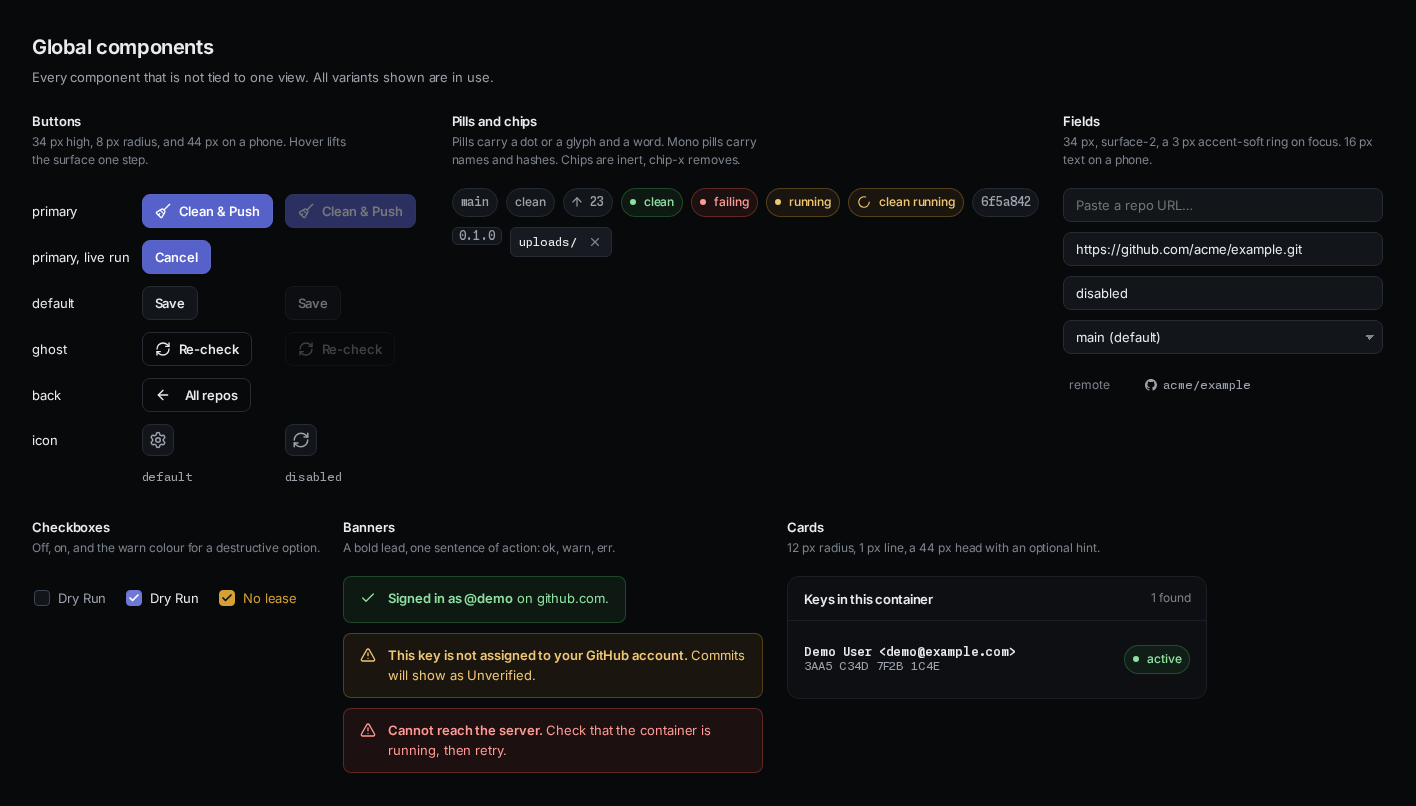
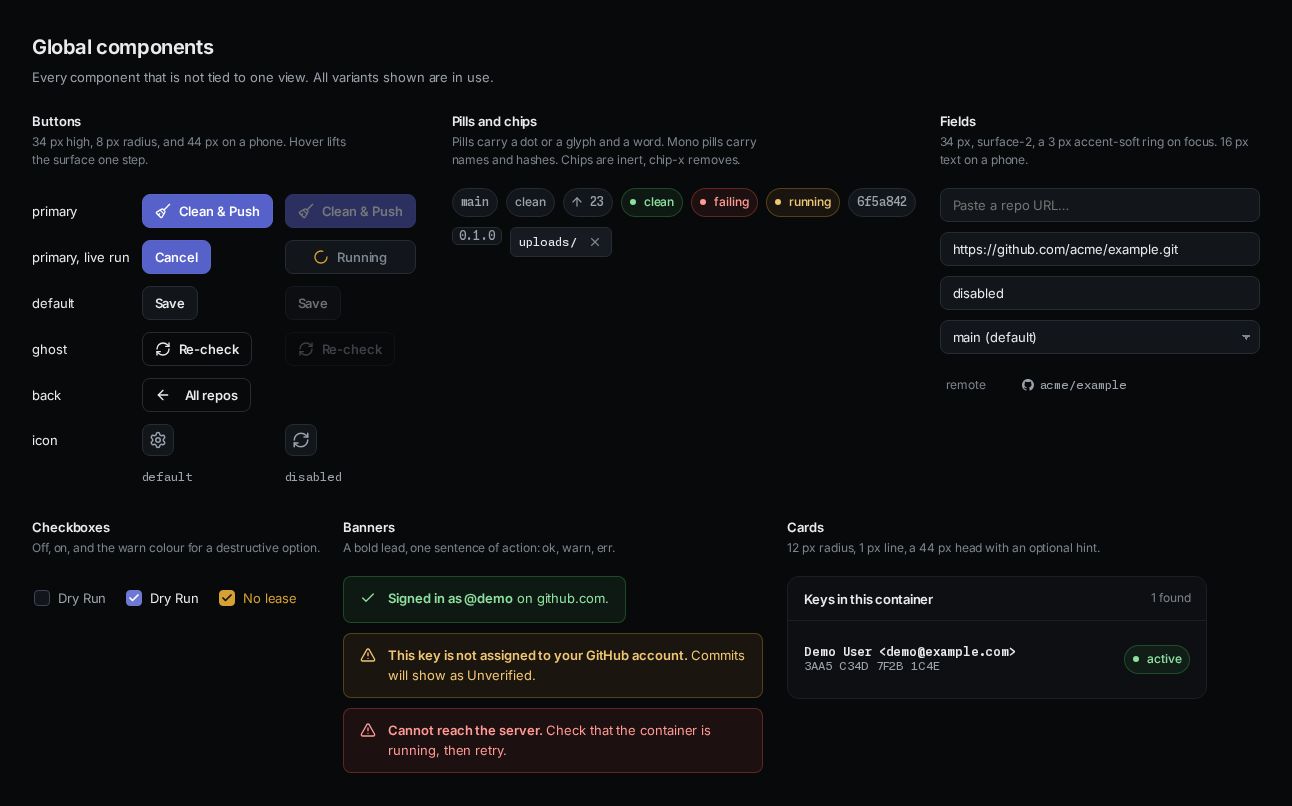
feat(ui): show a live run on the clean button

diff --git a/ui/static/index.html b/ui/static/index.html
@@ -259,6 +259,13 @@
   }
   @media (hover: hover) { .btn:hover { background: var(--surface-3); border-color: var(--line-hover); } }
   .btn.icon { width: 34px; padding: 0; --ico: var(--ico-l); }
+  /* a twin button has an idle face and a busy face in one grid cell, so its
+     box holds while the label swaps. The row's Clean & Push shows Running */
+  .btn.twin { display: inline-grid; }
+  .btn.twin > span { grid-area: 1 / 1; display: inline-flex; align-items: center; justify-content: center; gap: 8px; }
+  .btn.twin:not(.running) > .busy, .btn.twin.running > .idle { visibility: hidden; }
+  .btn.twin.running:disabled { opacity: 1; cursor: progress; background: var(--surface-2); border-color: var(--line-2); color: var(--dim); }
+  .btn.twin.running .busy .ico-svg { color: var(--warn); animation: spin 1s linear infinite; }
   .clean .sparkles { opacity: 0; transition: opacity var(--fast) var(--ease); }
   .clean:focus-visible .sparkles { opacity: 1; }
   @media (hover: hover) { .clean:hover .sparkles { opacity: 1; } }
@@ -473,7 +480,7 @@
   .check-list .passed > .ico-svg { color: var(--ok); }
   .check-list .failed > .ico-svg { color: var(--err); }
   .check-list .running > .ico-svg { color: var(--warn); }
-  .check-list .running > .ico-svg, .pill.busy .ico-svg { animation: spin 1s linear infinite; }
+  .check-list .running > .ico-svg { animation: spin 1s linear infinite; }
   .check-list { margin-bottom: 0; }
   .check-list li { flex-wrap: wrap; }
   .check-row { flex: 1; min-width: 0; display: flex; align-items: center; gap: 8px; min-height: 36px; padding: 0;
@@ -1560,9 +1567,6 @@
     } else {
       meta.append(el("span", { class: "pill mono" }, s.branch));
     }
-    if (repo.running) {
-      meta.append(el("span", { class: "pill warn busy", title: CLEAN_RUNNING }, icon("loader-circle"), "clean running"));
-    }
 
     let arena = null;
     if (s.ok) {
@@ -1592,9 +1596,11 @@
     const stale = s.ok ? overwriteReason(s) : "";
     const busy = Boolean(repo.running);
     const actions = el("div", { class: "card-actions" },
-      el("button", { class: "btn primary clean", disabled: Boolean(stale) || busy,
+      el("button", { class: busy ? "btn primary clean twin running" : "btn primary clean twin", disabled: Boolean(stale) || busy,
         title: busy ? CLEAN_RUNNING : stale || "Clean & Push",
-        onclick: async (e) => { e.stopPropagation(); await oneClick(repo); } }, icon("broom-sparkles"), "Clean & Push"));
+        onclick: async (e) => { e.stopPropagation(); await oneClick(repo); } },
+        el("span", { class: "idle" }, icon("broom-sparkles"), "Clean & Push"),
+        el("span", { class: "busy" }, icon("loader-circle"), "Running")));
 
     return el("div", { class: "repo-card", "aria-busy": busy, onclick: () => openRepo(repo.id) },
       head, meta, arena, actions, removeButton(repo));

diff --git a/docs/boards/components.html b/docs/boards/components.html
@@ -7,7 +7,7 @@
 </div>
 <table class="sheet">
 <tr><td>primary</td><td><button class="btn primary clean"><span class="ico-svg" data-icon="broom-sparkles" aria-hidden="true"></span>Clean &amp; Push</button></td><td><button class="btn primary clean" disabled><span class="ico-svg" data-icon="broom-sparkles" aria-hidden="true"></span>Clean &amp; Push</button></td></tr>
-<tr><td>primary, live run</td><td><button class="btn primary">Cancel</button></td><td></td></tr>
+<tr><td>primary, live run</td><td><button class="btn primary">Cancel</button></td><td><button class="btn primary clean twin running" disabled><span class="idle"><span class="ico-svg" data-icon="broom-sparkles" aria-hidden="true"></span>Clean &amp; Push</span><span class="busy"><span class="ico-svg" data-icon="loader-circle" aria-hidden="true"></span>Running</span></button></td></tr>
 <tr><td>default</td><td><button class="btn">Save</button></td><td><button class="btn" disabled>Save</button></td></tr>
 <tr><td>ghost</td><td><button class="btn ghost"><span class="ico-svg" data-icon="refresh-cw" aria-hidden="true"></span>Re-check</button></td><td><button class="btn ghost" disabled><span class="ico-svg" data-icon="refresh-cw" aria-hidden="true"></span>Re-check</button></td></tr>
 <tr><td>back</td><td><button class="btn ghost back"><span class="ico-svg" data-icon="arrow-left" aria-hidden="true"></span>All repos</button></td><td></td></tr>
@@ -21,7 +21,7 @@
 <p class="sub">Pills carry a dot or a glyph and a word. Mono pills carry names and hashes. Chips are inert, chip-x removes.</p>
 </div>
 <div class="col">
-<div class="row" style="gap:8px"><span class="pill mono">main</span><span class="pill">clean</span><span class="pill mono ahead"><span class="ico-svg" data-icon="arrow-up" aria-hidden="true"></span>23</span><span class="pill ok"><i class="dot"></i>clean</span><span class="pill err"><i class="dot"></i>failing</span><span class="pill warn"><i class="dot"></i>running</span><span class="pill warn busy"><span class="ico-svg" data-icon="loader-circle" aria-hidden="true"></span>clean running</span><span class="pill mono">6f5a842</span></div>
+<div class="row" style="gap:8px"><span class="pill mono">main</span><span class="pill">clean</span><span class="pill mono ahead"><span class="ico-svg" data-icon="arrow-up" aria-hidden="true"></span>23</span><span class="pill ok"><i class="dot"></i>clean</span><span class="pill err"><i class="dot"></i>failing</span><span class="pill warn"><i class="dot"></i>running</span><span class="pill mono">6f5a842</span></div>
 <div class="row" style="gap:8px"><span class="chip">0.1.0</span><span class="chip-x">uploads/ <button aria-label="remove"><span class="ico-svg" data-icon="x" aria-hidden="true"></span></button></span></div>
 </div>
 </div>

diff --git a/tests/e2e/test_dash_running.py b/tests/e2e/test_dash_running.py
@@ -1,9 +1,9 @@
 """A dashboard row shows a clean in flight on its repo.
 
-The server flags a repo with a live job. The row answers with an amber pill,
-a greyed Clean & Push that names the reason, and aria-busy. The return from
-the repo view reads the list again, so the row shows a run started there
-(docs/design.md).
+The server flags a repo with a live job. Its Clean & Push button turns into
+Running: disabled, an amber spinning glyph, and the same box. The reason is
+its title, and the row carries aria-busy. The return from the repo view reads
+the list again, so the row shows a run started there (docs/design.md).
 """
 
 from __future__ import annotations
@@ -20,12 +20,19 @@ pytestmark = pytest.mark.e2e
 
 REPO = "shop-web"
 CARD = f".repo-card:has-text('{REPO}')"
-ROW = (
-  "(card) => ({ busy: card.getAttribute('aria-busy'),"
-  " pill: (card.querySelector('.pill.busy') || {}).textContent || null,"
-  " disabled: card.querySelector('button.clean').disabled,"
-  " title: card.querySelector('button.clean').title })"
-)
+ROW = """(card) => {
+  const btn = card.querySelector('button.clean');
+  const glyph = getComputedStyle(btn.querySelector('.busy .ico-svg'));
+  const warn = getComputedStyle(document.documentElement).getPropertyValue('--warn').trim();
+  return { busy: card.getAttribute('aria-busy'), pills: card.querySelectorAll('.repo-meta .pill').length,
+    running: btn.classList.contains('running'), label: btn.innerText.trim(),
+    disabled: btn.disabled, title: btn.title, amber: glyph.color === warn || glyph.color === hex(warn),
+    spins: glyph.animationName === 'spin', box: [btn.offsetWidth, btn.offsetHeight] };
+  function hex(c) {
+    const m = /^#([0-9a-f]{6})$/i.exec(c);
+    return m ? `rgb(${[0, 2, 4].map((i) => parseInt(m[1].slice(i, i + 2), 16)).join(', ')})` : c;
+  }
+}"""
 REASON = "a clean is running on this repo"
 
 
@@ -46,21 +53,27 @@ def test_a_live_job_marks_its_row(desktop: Walker) -> None:
   page.route("**/api/repos", flag)
   try:
     desktop.goto(1200)
-    page.wait_for_selector(f"{CARD} .pill.busy")
+    page.wait_for_selector(f"{CARD} button.clean.running")
     row = page.eval_on_selector(CARD, ROW)
+    other = page.eval_on_selector(".repo-card:has-text('billing-api')", ROW)
     assert row == {
       "busy": "true",
-      "pill": "clean running",
+      "pills": 1,
+      "running": True,
+      "label": "Running",
       "disabled": True,
       "title": REASON,
-    }
-    other = page.eval_on_selector(".repo-card:has-text('billing-api')", ROW)
-    assert other["busy"] is None and other["pill"] is None, "one row alone"
+      "amber": True,
+      "spins": True,
+      "box": other["box"],
+    }, "the button carries the run, no pill, and the same box as an idle one"
+    assert other["busy"] is None and other["label"] == "Clean & Push", "one row alone"
+    assert other["spins"] is False
     # repo view and back: the return reads the statuses once more
     before = len(reads)
     desktop.click(f"{CARD} .repo-name", 600)
     desktop.click("#back", 600)
-    page.wait_for_selector(f"{CARD} .pill.busy")
+    page.wait_for_selector(f"{CARD} button.clean.running")
     deadline = time.monotonic() + 5
     while len(reads) < before + 1 and time.monotonic() < deadline:
       page.wait_for_timeout(100)
@@ -70,4 +83,6 @@ def test_a_live_job_marks_its_row(desktop: Walker) -> None:
     page.unroute("**/api/fetch")
   desktop.goto(1200)
   page.wait_for_selector(CARD)
-  assert page.eval_on_selector(CARD, ROW)["pill"] is None, "a plain reload clears it"
+  assert page.eval_on_selector(CARD, ROW)["running"] is False, (
+    "a plain reload clears it"
+  )

diff --git a/tests/test_ui.py b/tests/test_ui.py
@@ -1326,10 +1326,16 @@ def test_every_clean_button_carries_the_broom_glyph() -> None:
     )
     assert match is not None, button_id
     assert match.group(1) == CLEAN_GLYPH + "Clean &amp; Push", button_id
-  assert 'class: "btn primary clean", disabled: Boolean(stale) || busy,' in page
+  assert (
+    'class: busy ? "btn primary clean twin running" : "btn primary clean twin", '
+    "disabled: Boolean(stale) || busy,"
+  ) in page
   assert 'title: busy ? CLEAN_RUNNING : stale || "Clean & Push",' in page
-  assert 'icon("broom-sparkles"), "Clean & Push"));' in page, (
-    "the card button has words"
+  assert (
+    'el("span", { class: "idle" }, icon("broom-sparkles"), "Clean & Push"),' in page
+  ), "the card button has words"
+  assert 'el("span", { class: "busy" }, icon("loader-circle"), "Running")));' in page, (
+    "the busy face names the run"
   )
   assert 'running ? ["Cancel"] : [icon("broom-sparkles"), "Clean & Push"]' in page
   assert ".clean .sparkles { opacity: 0;" in page

diff --git a/tests/e2e/test_icons.py b/tests/e2e/test_icons.py
@@ -56,9 +56,7 @@ def test_clean_buttons_carry_the_broom_and_sparkle_on_hover(desktop: Walker) -> 
     f"() => getComputedStyle(document.querySelector('{CARD_CLEAN} .sparkles')).opacity === '1'"
   )
   assert idle == 0
-  assert (
-    page.eval_on_selector(CARD_CLEAN, "e => e.textContent.trim()") == "Clean & Push"
-  )
+  assert page.eval_on_selector(CARD_CLEAN, "e => e.innerText.trim()") == "Clean & Push"
   desktop.click(".repo-card:has-text('shop-web') .repo-name", 800)
   assert page.eval_on_selector("#start .ico-svg", BOX) == BUTTON
   assert page.eval_on_selector("#start .sparkles", OPACITY) == 0

diff --git a/docs/design.md b/docs/design.md
@@ -216,7 +216,7 @@ The one design record for the arena-cleanup web app. Its sections follow the nem
     - Then Clean, and Remove with the trash glyph.
     - The arena area takes the free width, so Clean and Remove sit at the right edge.
     - In a row an arena row is one line: the name, the ahead chip, and the PR pill.
-    - A clean in flight adds an amber `clean running` pill after the branch pill, greys Clean & Push with the reason, and sets `aria-busy`.
+    - A clean in flight turns Clean & Push into Running: disabled, an amber spinning glyph, the same box, and the reason as its title. The row carries `aria-busy`.
   - Card: at 1200 px and below a grid card.
     - The icon, the name, and Remove sit on top on one centre line, then the arena rows, and Clean & Push bottom right.
     - The branch chip stays in the rows, and an unavailable card shows its reason in the arena area.
@@ -516,4 +516,5 @@ The one design record for the arena-cleanup web app. Its sections follow the nem
 - Accepted 2026-10-24: above 1200 px the repos are one table, not row-shaped cards, and the cards below 1200 px keep their shape.
   - A header line reads Repo, Branch, Arena branches, and Actions. Rules of 1 px split the rows, cells pad 12 px, a hovered row tints, and the Sort select stays.
 - Accepted 2026-10-24: a button that leads to GitHub shows the GitHub mark instead of the word. Its title and accessible name keep the phrase.
+- Accepted 2026-10-24: the Clean & Push button carries a live run itself, as Running with an amber spinning glyph, and the `clean running` pill is gone. Both labels share one grid cell, so the button keeps its width and height across states.
   - A running job refreshes on every poll, and its first read after the end replaces the short log.

diff --git a/CHANGELOG.md b/CHANGELOG.md
@@ -9,6 +9,14 @@ The engine, `arena-cleanup.py`, carries its own number and its own file,
 The format follows [Keep a Changelog](https://keepachangelog.com/en/1.1.0/),
 and the project uses [Semantic Versioning](https://semver.org/spec/v2.0.0.html).
 
+## [0.3.10] - 2026-10-24
+
+### Changed
+
+- A clean in flight shows on the Clean & Push button itself: disabled, an
+  amber spinning glyph, and the label Running, at the same width and height.
+  The `clean running` pill is gone.
+
 ## [0.3.9] - 2026-10-24
 
 ### Added
